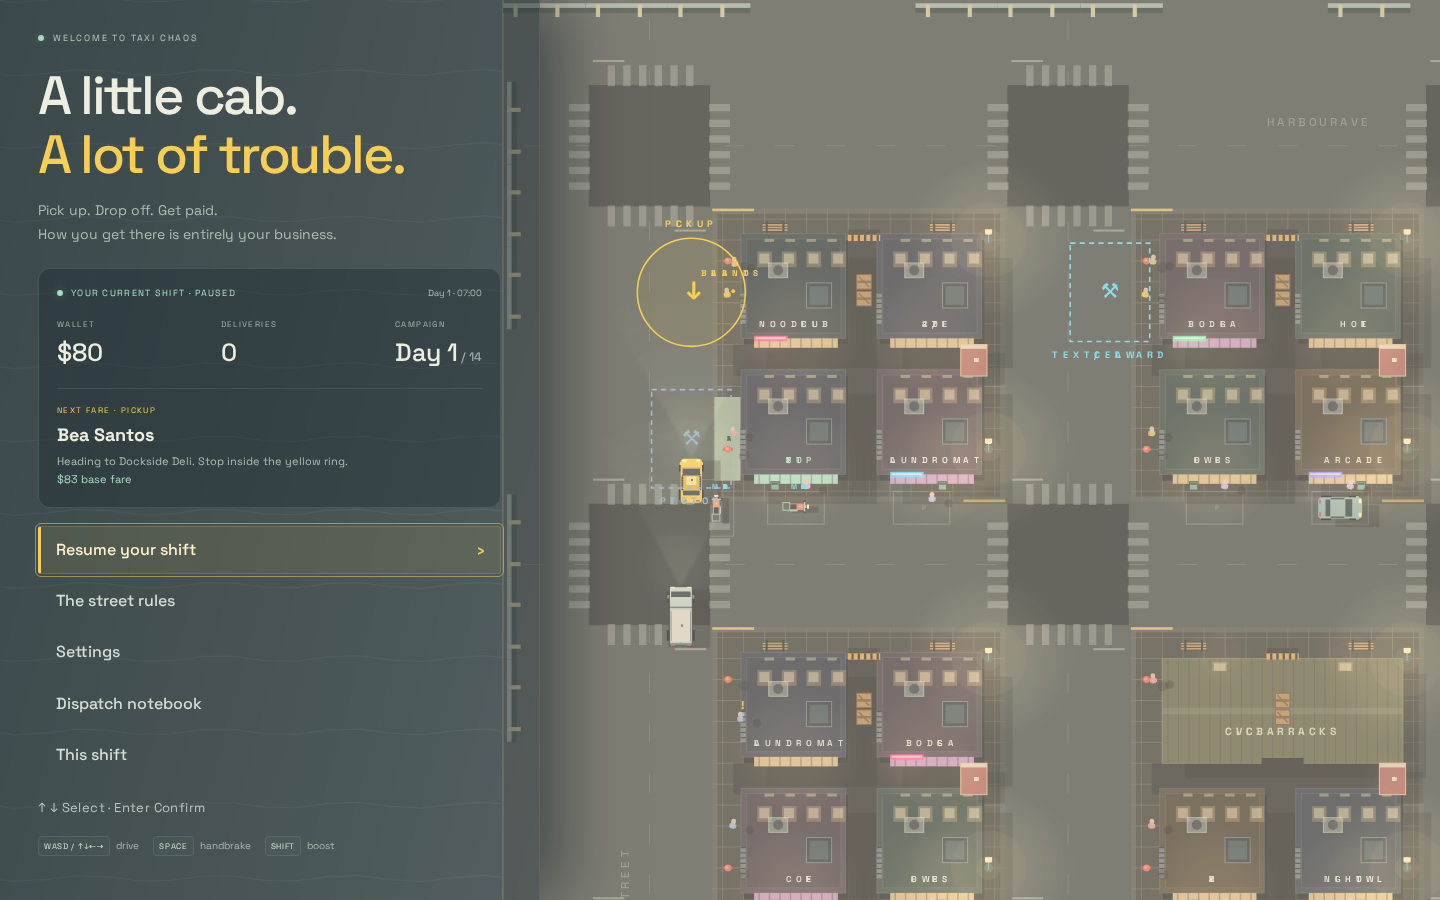
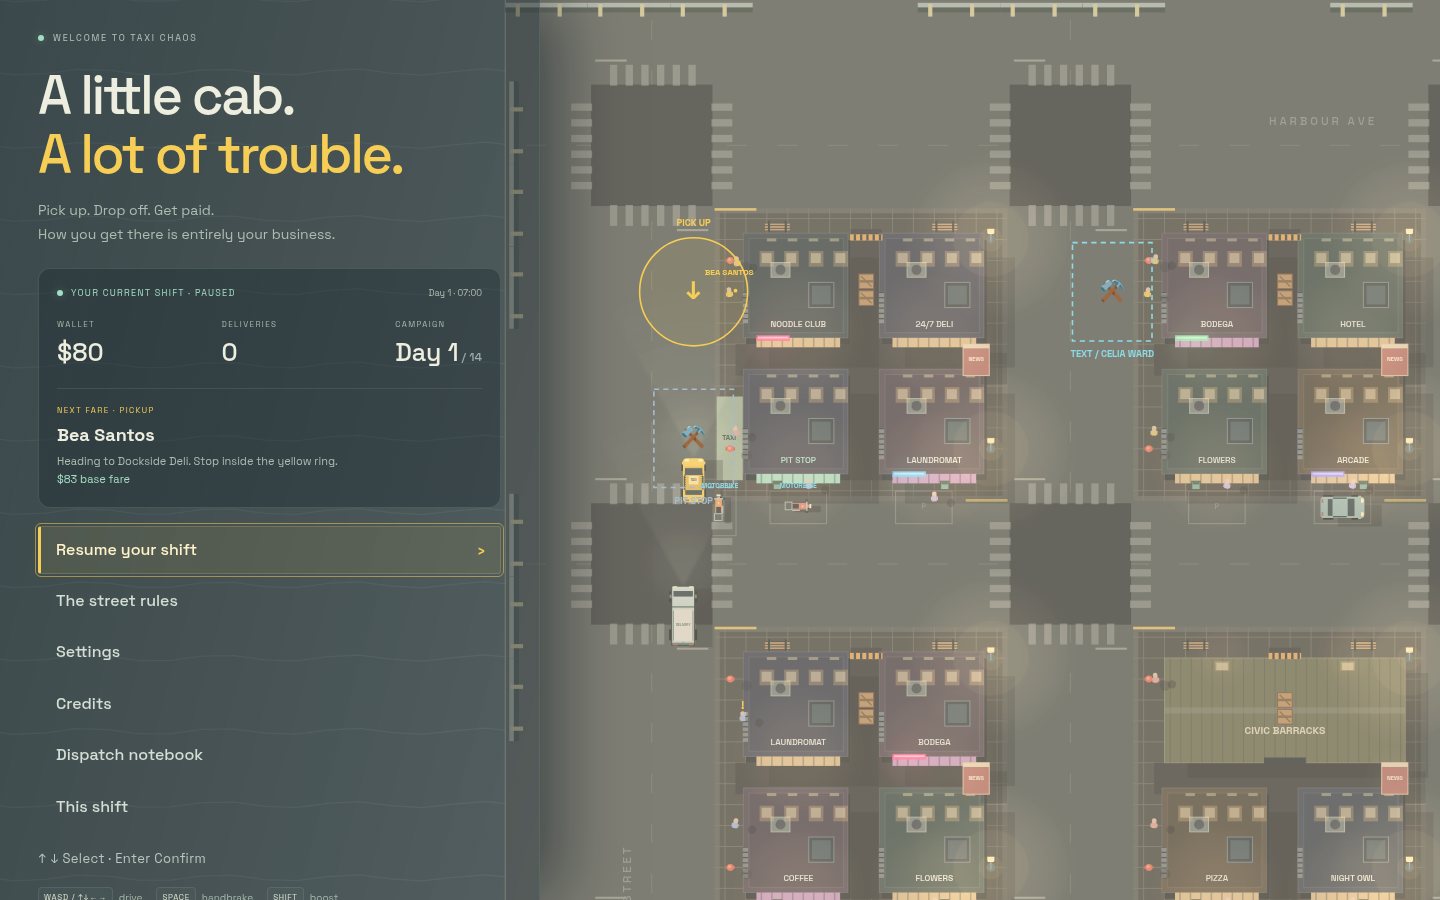
Organize settings with arrow controls and top-level credits

diff --git a/src/game-drawer.ts b/src/game-drawer.ts
@@ -1,6 +1,7 @@
 import type { Game } from './game';
 import type { AudioFX } from './audio';
-import type { Difficulty } from './rules';
+import { difficulties, type Difficulty } from './rules';
+import { stepChoice, stepVolume, type SettingKey } from './setting-controls';
 import type { Allegation } from './campaign/model';
 import { bindAudioControls } from './audio-controls';
 import { DrawerMenu } from './drawer-menu';
@@ -21,6 +22,10 @@ export class GameDrawer {
       const button = event.target instanceof Element ? event.target.closest<HTMLButtonElement>('button') : null;
       if (!this.active || this.transition || !button || button.disabled) return;
       const game = options.game(), page = button.dataset.page;
+      if (button.dataset.step) {
+        this.changeSetting(button.closest<HTMLElement>('[data-setting]')!.dataset.setting as SettingKey, Number(button.dataset.step));
+        return;
+      }
       if (page && isDrawerPage(page)) { void this.open(page); return; }
       switch (button.id) {
         case 'start': options.play(); break;
@@ -33,12 +38,11 @@ export class GameDrawer {
       if (button.dataset.submit && game.submitMaterial(button.dataset.submit)) this.refresh();
       if (button.dataset.publish && game.requestPublication(button.dataset.publish as Allegation)) this.refresh();
     });
-    root.addEventListener('change', event => {
-      const input = event.target as HTMLInputElement | HTMLSelectElement;
-      if (input.id === 'gore-option') options.game().configure({ gore: (input as HTMLInputElement).checked });
-      if (input.id === 'difficulty-option') options.game().configure({ difficulty: input.value as Difficulty });
-    });
     root.addEventListener('input', event => {
+      if ((event.target as HTMLElement).id === 'difficulty-slider') {
+        options.game().configure({ difficulty: (Object.keys(difficulties) as Difficulty[])[Number((event.target as HTMLInputElement).value)] });
+        this.refreshSettings();
+      }
       if ((event.target as HTMLElement).id === 'notebook-search') this.filterNotebook();
     });
   }
@@ -49,14 +53,37 @@ export class GameDrawer {
   }
   refresh() {
     this.transition?.cancel(); this.transition = undefined;
-    // Keep native controls mounted: changing a setting needs no DOM/focus rebuild.
-    if (this.page === 'settings' && this.root.dataset.page === 'settings') {
-      this.root.classList.add('splash-modal');
-      const { settings } = this.options.game();
-      this.root.querySelector<HTMLInputElement>('#gore-option')!.checked = settings.gore;
-      this.root.querySelector<HTMLSelectElement>('#difficulty-option')!.value = settings.difficulty;
-    } else this.paint();
+    this.root.classList.add('splash-modal');
+    if (this.page === 'settings' && this.root.dataset.page === 'settings') this.refreshSettings();
+    else this.paint();
   }
+  private refreshSettings() {
+    const { settings } = this.options.game(), p = this.options.audio.preferences;
+    const values: Record<SettingKey, string> = { gore: settings.gore ? 'On' : 'Off', difficulty: difficulties[settings.difficulty].name, muted: p.muted ? 'On' : 'Off', volume: `${Math.round(p.volume * 100)}%`, sirens: `${Math.round(p.sirens * 100)}%` };
+    this.root.querySelectorAll<HTMLElement>('[data-setting]').forEach(row => {
+      const value = values[row.dataset.setting as SettingKey];
+      if (row.dataset.setting === 'difficulty') {
+        row.querySelector('[data-difficulty-label]')!.textContent = value;
+        const slider = row.querySelector<HTMLInputElement>('input')!;
+        slider.value = String(Object.keys(difficulties).indexOf(settings.difficulty));
+        slider.setAttribute('aria-valuetext', value);
+        return;
+      }
+      const output = row.querySelector('output')!;
+      if (output.textContent !== value) output.textContent = value;
+    });
+  }
+  private changeSetting(key: SettingKey, delta: number) {
+    const game = this.options.game(), audio = this.options.audio, p = audio.preferences;
+    if (key === 'gore') game.configure({ gore: !game.settings.gore });
+    else if (key === 'difficulty') game.configure({ difficulty: stepChoice(Object.keys(difficulties) as Difficulty[], game.settings.difficulty, delta) });
+    else {
+      audio.configure(key === 'muted' ? { muted: !p.muted } : { [key]: stepVolume(p[key], delta) });
+      void audio.unlock();
+    }
+    this.refreshSettings();
+  }
+
   async open(page: DrawerPage, { animate = true } = {}) {
     // Capture previews can choose a page before entering paused mode.
     if (!this.active) { this.page = page; return; }
@@ -83,6 +110,7 @@ export class GameDrawer {
     void this.open(parent); return true;
   }
   move(delta: number) { if (this.active && !this.transition) this.menu.move(delta); }
+  adjust(delta: number) { if (this.active && !this.transition) this.menu.adjust(delta); }
   activate() { if (this.active && !this.transition) this.menu.activate(); }
   handleKey(event: KeyboardEvent) {
     if (!this.active) return false;

diff --git a/src/drawer.css b/src/drawer.css
@@ -29,3 +29,21 @@
 @media(prefers-reduced-motion:reduce){.drawer-entering{animation:none}.splash-modal .menu-item,.splash-modal .menu-item::after,.splash-modal .menu-field{transition:none}}
 @media(max-width:700px){.splash-modal{width:min(420px,calc(100vw - 24px));padding:max(24px,env(safe-area-inset-top)) max(24px,env(safe-area-inset-right)) max(24px,env(safe-area-inset-bottom)) max(24px,env(safe-area-inset-left))}.splash-modal h2{font-size:clamp(34px,8vw,48px)}.splash-save{padding:14px}.splash-save-heading{flex-wrap:wrap}.splash-save-heading small{margin-left:0;width:100%}.splash-snapshot strong{font-size:22px}.splash-modal .intro-controls{gap:8px;font-size:9px}.splash-modal .intro-grid{grid-template-columns:1fr}.splash-modal .intro-grid>div>span{margin-bottom:5px}}
 @media(max-height:650px){.splash-modal{padding-top:20px;padding-bottom:20px}.splash-modal h2{font-size:40px;margin-top:14px}.drawer-page>.intro-copy{margin-bottom:14px}.splash-snapshot{padding:12px 0}}
+/* Settings retain the drawer palette and use one control pattern throughout. */
+.settings-group{min-width:0;margin:22px 0 0;padding:4px 8px 8px;border:1px solid var(--border);border-radius:8px}
+.settings-group legend{padding:0 8px;font-size:9px;font-weight:600;letter-spacing:1.5px;color:var(--mint)}
+.setting-row{display:flex;align-items:center;gap:12px;min-height:64px;padding:8px;border:1px solid transparent;border-radius:4px;color:#d4ded4}
+.setting-row+.setting-row{border-top-color:#a3ddc215}
+.setting-row[data-selected]{background:#f7ce5510;border-color:#f7ce5555;color:#fff3cb}
+.setting-row:focus-visible{outline:1px solid var(--gold);outline-offset:2px}
+.setting-row>svg{flex:0 0 22px;color:var(--mint)}
+.setting-label{flex:1;min-width:0;font-size:13px;font-weight:500}
+.setting-label small{display:block;margin-top:5px;font-size:9px;font-weight:400;color:#aebcaf;line-height:1.5}
+.setting-value{display:flex;align-items:center;flex-shrink:0}
+.setting-value output{min-width:52px;text-align:center;font-size:13px;font-variant-numeric:tabular-nums}
+.setting-value button{display:grid;place-items:center;width:44px;height:44px;padding:0;background:transparent;border:1px solid transparent;border-radius:4px;color:var(--mint);font-size:26px;touch-action:manipulation}
+.setting-value button:hover{background:#a3ddc212;border-color:var(--border)}
+@media(max-width:380px){.settings-group{padding-inline:2px}.setting-row{gap:8px;padding-inline:4px}.setting-label{font-size:11px}.setting-value output{min-width:40px;font-size:12px}.setting-row>svg{flex-basis:18px;width:18px}.setting-value button{width:36px}}
+
+.setting-value input[type=range]{width:64px;min-width:0;margin:0;accent-color:var(--mint);cursor:pointer}
+@media(max-width:380px){.setting-value input[type=range]{width:40px}}

diff --git a/src/drawer-view.ts b/src/drawer-view.ts
@@ -1,9 +1,10 @@
 import type { Game } from './game';
 import type { AudioFX } from './audio';
 import { difficulties } from './rules';
+import { settingRow } from './setting-controls';
 import { calendarLabel } from './campaign/clock';
 import { notebookMarkup, notebookGuideMarkup } from './campaign/view';
-import { audioMarkup, audioCreditsMarkup } from './audio-controls';
+import { audioCreditsMarkup } from './audio-controls';
 import { splashMarkup, streetRulesMarkup, shiftMarkup } from './splash';
 import { drawerHeading, menuItem, type DrawerPage } from './drawer-markup';
 
@@ -12,7 +13,7 @@ const pages = {
   settings: { title: 'Settings.', parent: 'home' },
   rules: { title: 'The street rules.', parent: 'home' },
   shift: { title: 'This shift.', parent: 'home' },
-  credits: { title: 'Sound credits.', parent: 'settings' },
+  credits: { title: 'Credits.', parent: 'home' },
   notebook: { title: '', parent: 'home' },
   'notebook-guide': { title: 'Keeping records.', parent: 'notebook' },
 } as const satisfies Record<DrawerPage, { title: string; parent: DrawerPage | null }>;
@@ -20,8 +21,15 @@ export const drawerParent = (page: DrawerPage) => pages[page].parent;
 export const isDrawerPage = (page: string): page is DrawerPage => Object.hasOwn(pages, page);
 
 function settingsMarkup(game: Game, audio: AudioFX) {
-  const choices = Object.entries(difficulties).map(([key, value]) => `<option value="${key}" ${game.settings.difficulty === key ? 'selected' : ''}>${value.name}</option>`).join('');
-  return `<div class="play-options"><label class="menu-field"><input id="gore-option" type="checkbox" ${game.settings.gore ? 'checked' : ''}> Pulp gore <span>Fatal impacts & blood</span></label><label class="menu-field">Difficulty <select id="difficulty-option" aria-label="Gameplay difficulty">${choices}</select></label></div>${audioMarkup(audio, { credits: 'page' })}`;
+  const p = audio.preferences;
+  return `<fieldset class="settings-group"><legend>GAMEPLAY</legend>
+    ${settingRow('gore', 'Pulp gore', game.settings.gore ? 'On' : 'Off', 'Fatal impacts & blood')}
+    ${settingRow('difficulty', 'Difficulty', difficulties[game.settings.difficulty].name)}
+  </fieldset><fieldset class="settings-group"><legend>AUDIO</legend>
+    ${settingRow('muted', 'Mute FX', p.muted ? 'On' : 'Off')}
+    ${settingRow('volume', 'FX volume', `${Math.round(p.volume * 100)}%`)}
+    ${settingRow('sirens', 'Sirens', `${Math.round(p.sirens * 100)}%`)}
+  </fieldset>`;
 }
 function campaignMarkup(game: Game) {
   if (game.mode !== 'paused' || !game.campaignEnabled) return '';

diff --git a/src/drawer-menu.ts b/src/drawer-menu.ts
@@ -40,11 +40,11 @@ export class DrawerMenu {
     }, true);
   }
   private items() {
-    return Array.from(this.root.querySelectorAll<HTMLElement>('button:not(:disabled), input:not(:disabled), select:not(:disabled), a[href]'))
-      .filter(item => !item.hidden && item.getClientRects().length > 0);
+    return Array.from(this.root.querySelectorAll<HTMLElement>('[data-setting], button:not(:disabled):not([data-step]), input:not(:disabled), select:not(:disabled), a[href]'))
+      .filter(item => (!item.closest('[data-setting]') || item.matches('[data-setting]')) && !item.hidden && item.getClientRects().length > 0);
   }
   private item(target: EventTarget | null) {
-    const item = target instanceof Element ? target.closest<HTMLElement>('button, input, select, a[href]') : null;
+    const item = target instanceof Element ? (target.closest<HTMLElement>('[data-setting]') ?? target.closest<HTMLElement>('button, input, select, a[href]')) : null;
     return item && this.root.contains(item) && !item.matches(':disabled') && item.getClientRects().length ? item : null;
   }
   private select(item: HTMLElement) {
@@ -71,8 +71,14 @@ export class DrawerMenu {
     this.select(items[(Math.max(0, current) + delta + items.length) % items.length]);
     this.selected?.scrollIntoView({ block: 'nearest' });
   }
-  activate() { this.selected?.click(); }
+  adjust(delta: number) {
+    this.selected?.querySelector<HTMLButtonElement>(`[data-step="${delta}"]`)?.click();
+  }
+  activate() { if (this.selected?.matches('[data-setting]')) this.adjust(1); else this.selected?.click(); }
   handleKey(event: KeyboardEvent) {
+    if (this.selected?.matches('[data-setting]') && ['ArrowLeft', 'ArrowRight'].includes(event.code)) {
+      event.preventDefault(); this.adjust(event.code === 'ArrowLeft' ? -1 : 1); return true;
+    }
     const native = event.target instanceof Element ? event.target.closest('input, select') : null;
     // Native value editing uses left/right on ranges and all arrows on selects.
     if (native?.matches('select') && event.code !== 'Tab') return false;

diff --git a/src/setting-controls.ts b/src/setting-controls.ts
@@ -1,0 +1,22 @@
+// Match the HUD's monochrome, rounded stroke icons.
+const paths = {
+  gore: '<path d="M8 17v4h8v-4a8 8 0 1 0-8 0Z"/><circle cx="9" cy="10" r="1"/><circle cx="15" cy="10" r="1"/><path d="m11 14 1-2 1 2m-1 4v3"/>',
+  difficulty: '<path d="M4 19a10 10 0 1 1 16 0M12 4v2M4 12h2m12 0h2m-8 0 5-5"/><circle cx="12" cy="12" r="2"/>',
+  muted: '<path d="M11 5 6 9H3v6h3l5 4Zm5 4 6 6m0-6-6 6"/>',
+  volume: '<path d="M11 5 6 9H3v6h3l5 4Zm4 3a5 5 0 0 1 0 8m3-11a9 9 0 0 1 0 14"/>',
+  sirens: '<path d="M6 18v-7a6 6 0 0 1 12 0v7M4 18h16v3H4ZM12 1v1M3 4l2 2m16-2-2 2M1 11h2m18 0h2"/>',
+};
+export type SettingKey = keyof typeof paths;
+export function settingRow(key: SettingKey, label: string, value: string, hint = '') {
+  return `<div class="setting-row" id="${key}-option" data-setting="${key}" tabindex="0" role="group" aria-label="${label}">
+    <svg viewBox="0 0 24 24" fill="none" stroke="currentColor" stroke-width="1.7" stroke-linecap="round" stroke-linejoin="round" aria-hidden="true">${paths[key]}</svg>
+    <div class="setting-label">${label}${key === 'difficulty' ? `<small data-difficulty-label>${value}</small>` : hint ? `<small>${hint}</small>` : ''}</div>
+    <div class="setting-value"><button type="button" data-step="-1" aria-label="Previous ${label}">‹</button>${key === 'difficulty' ? `<input type="range" id="difficulty-slider" min="0" max="2" step="1" value="${['Cruise', 'Street', 'Chaos'].indexOf(value)}" aria-label="Difficulty" aria-valuetext="${value}">` : `<output aria-live="polite">${value}</output>`}<button type="button" data-step="1" aria-label="Next ${label}">›</button></div>
+  </div>`;
+}
+export function stepChoice<T>(choices: readonly T[], current: T, delta: number): T {
+  return choices[(choices.indexOf(current) + delta + choices.length) % choices.length];
+}
+export function stepVolume(current: number, delta: number): number {
+  return Math.max(0, Math.min(100, Math.round(current * 100) + delta * 5)) / 100;
+}

diff --git a/src/audio-controls.ts b/src/audio-controls.ts
@@ -32,6 +32,6 @@ export function refreshAudioControls(audio: AudioFX) {
   for (const output of Array.from(document.querySelectorAll<HTMLOutputElement>('[data-audio-out]'))) {
     const key = output.dataset.audioOut as 'volume' | 'sirens'; output.textContent = `${Math.round(state[key] * 100)}%`;
   }
-  const message = state.muted ? 'FX muted.' : state.volume === 0 ? 'FX volume is zero.' : state.status === 'locked' ? 'Sound starts with your first click or driving key.' : state.status === 'loading' ? 'Preparing sound FX…' : state.status === 'unavailable' ? 'Sound unavailable in this browser.' : state.context !== 'running' ? 'Click or press a driving key to resume sound.' : state.failures.length ? `${state.decoded}/${state.total} sounds ready; some samples unavailable.` : 'FX ready · Sirens at 0% disables sirens.';
+  const message = state.muted ? 'FX muted.' : state.volume === 0 ? 'FX volume is zero.' : state.status === 'locked' ? 'Sound starts with your first click or driving key.' : state.status === 'loading' ? 'Preparing sound FX…' : state.status === 'unavailable' ? 'Sound unavailable in this browser.' : state.context !== 'running' ? 'Click or press a driving key to resume sound.' : state.failures.length ? `${state.decoded}/${state.total} sounds ready; some samples unavailable.` : 'FX ready.';
   for (const label of Array.from(document.querySelectorAll<HTMLElement>('[data-audio-status]'))) label.textContent = message;
 }

diff --git a/src/splash.test.ts b/src/splash.test.ts
@@ -30,14 +30,14 @@ describe('startup splash', () => {
   it('uses equally styled actions and separate pages without accordions', () => {
     const game = new Game(undefined, false);
     const html = splashMarkup(game, false);
-    expect(html.match(/class="menu-item"/g)).toHaveLength(3);
+    expect(html.match(/class="menu-item"/g)).toHaveLength(4);
     expect(html).not.toContain('class="primary"');
     expect(menuItem('<Start>', { id: '"start', disabled: true })).toContain('id="&quot;start" disabled><span>&lt;Start&gt;</span>');
     expect(html).not.toContain('<details'); expect(html).not.toContain('<summary');
     expect(html).not.toContain('Chase the fare.');
     expect(streetRulesMarkup()).toContain('Chase the fare.');
     expect(drawerHeading('Settings.', 'home')).toContain('data-page="home"');
-    expect(drawerHeading('Sound credits.', 'settings')).toContain('data-page="settings"');
+    expect(drawerHeading('Credits.', 'home')).toContain('data-page="home"');
   });
   it('maps prompts to the most recent device', () => {
     expect(splashPrompts('keyboard')).toContain('WASD'); expect(splashPrompts('touch')).toContain('DRAG'); expect(splashPrompts('xbox')).toContain('X'); expect(splashPrompts('playstation')).toContain('□');

diff --git a/src/splash.ts b/src/splash.ts
@@ -38,6 +38,7 @@ export function splashMarkup(game: Game, saved: boolean): string {
       ${menuItem(paused ? 'Resume your shift' : saved ? 'Continue' : 'Start your shift', { id: 'start' })}
       ${menuItem('The street rules', { id: 'menu-rules', page: 'rules' })}
       ${menuItem('Settings', { id: 'menu-settings', page: 'settings' })}
+      ${menuItem('Credits', { id: 'menu-credits', page: 'credits' })}
       ${paused ? `${game.campaignEnabled ? menuItem('Dispatch notebook', { id: 'open-notebook', page: 'notebook' }) : ''}${menuItem('This shift', { id: 'menu-shift', page: 'shift' })}` : ''}
     </nav>
     <p class="menu-hint" id="menu-hint">↑ ↓ Select · Enter Confirm</p><div class="intro-controls" id="splash-prompts"></div>`;

diff --git a/src/setting-controls.test.ts b/src/setting-controls.test.ts
@@ -1,0 +1,16 @@
+import { describe, expect, it } from 'vitest';
+import { stepChoice, stepVolume } from './setting-controls';
+describe('settings changes', () => {
+  it('cycles difficulty in both directions', () => {
+    const choices = ['cruise', 'standard', 'chaos'];
+    expect(stepChoice(choices, 'cruise', -1)).toBe('chaos');
+    expect(stepChoice(choices, 'chaos', 1)).toBe('cruise');
+    expect(stepChoice(choices, 'standard', -1)).toBe('cruise');
+  });
+  it('steps audio by five percentage points and clamps at mute/full volume', () => {
+    expect(stepVolume(0.65, 1)).toBe(0.7);
+    expect(stepVolume(0.25, -1)).toBe(0.2);
+    expect(stepVolume(0.02, -1)).toBe(0);
+    expect(stepVolume(0.99, 1)).toBe(1);
+  });
+});

diff --git a/src/main.ts b/src/main.ts
@@ -196,6 +196,8 @@ function pollController() {
   if (activity && pad) { detectInput(/sony|playstation|dualsense|dualshock|054c/i.test(pad.id) ? 'playstation' : 'xbox'); void audio.unlock(); }
   if (pad && drawer.active && !$('overlay').inert) {
     if (pressed[12] && !previousPadButtons[12]) drawer.move(-1);
+    if (pressed[14] && !previousPadButtons[14]) drawer.adjust(-1);
+    if (pressed[15] && !previousPadButtons[15]) drawer.adjust(1);
     if (pressed[13] && !previousPadButtons[13]) drawer.move(1);
     if (pressed[0] && !previousPadButtons[0]) drawer.activate();
     if (pressed[1] && !previousPadButtons[1]) drawer.back();
